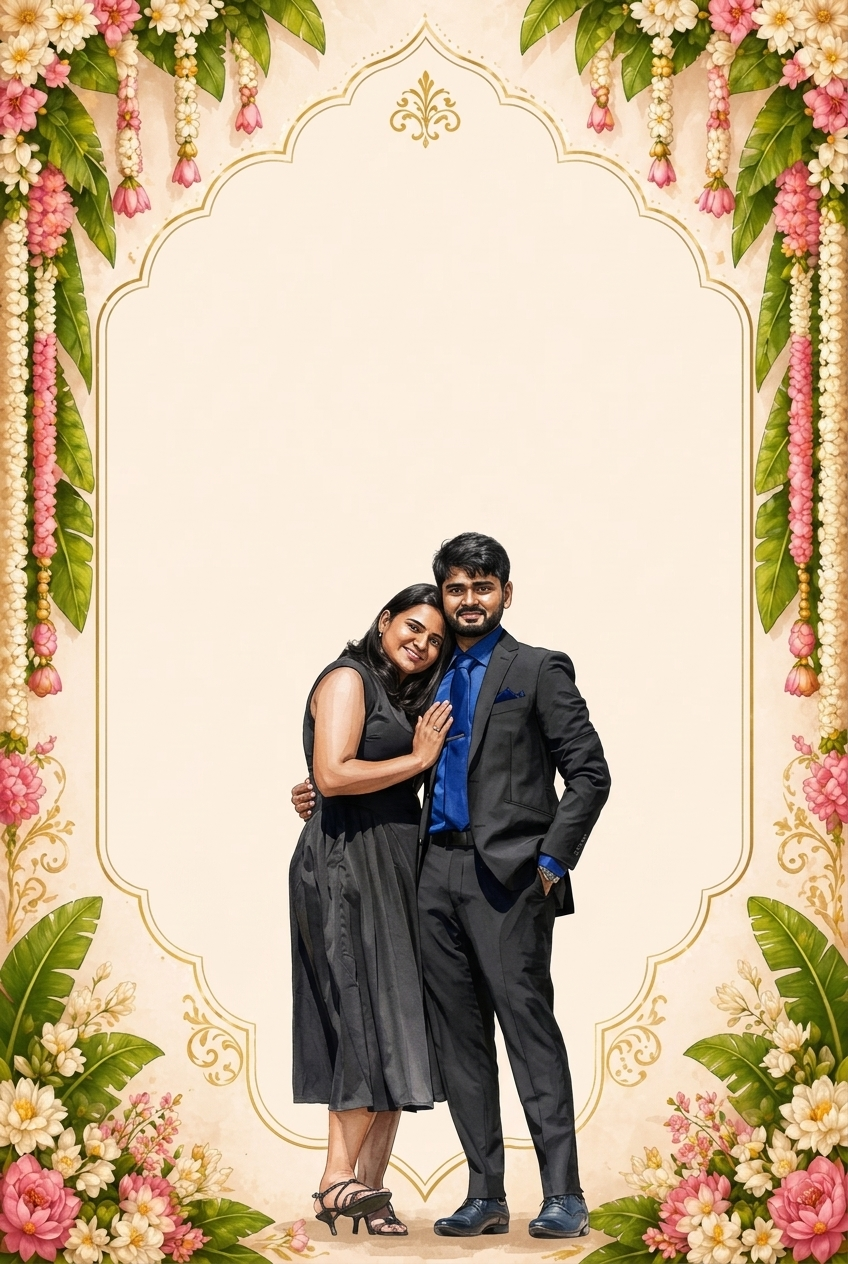
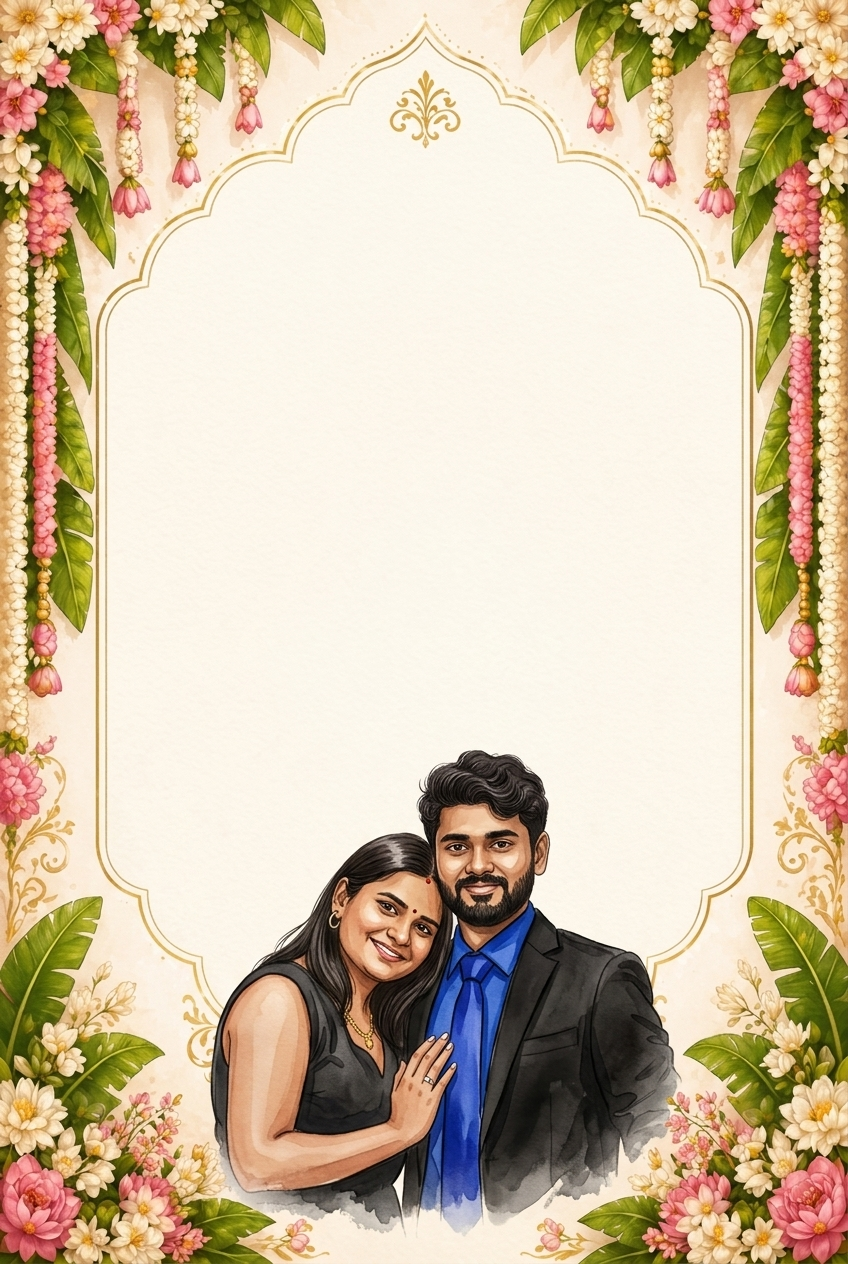
Fix Page 2 compact couple arch illustrations without gaps and configure Firebase Hosting (vishnupriyan-ss)

diff --git a/src/components/IntroductionSection.jsx b/src/components/IntroductionSection.jsx
@@ -93,35 +93,10 @@ export function IntroductionSection() {
 
       {/* Floral Gold Temple Arch & Watercolor Couple Stage */}
       <div className="print-arch-stage relative z-10 mx-auto w-full max-w-[54rem] print:max-w-none overflow-hidden rounded-3xl print:rounded-none border border-gold-400/40 print:border-0 shadow-[0_24px_64px_rgba(58,8,17,0.14)] print:shadow-none bg-[#FBF1E6]">
-        {/* Layer 1: Full-bleed Floral Arch Frame */}
-        <img
-          src={activeIllustration.src}
-          alt=""
-          aria-hidden="true"
-          className="pointer-events-none select-none absolute inset-0 h-full w-full object-fill"
-        />
-
-        {/* Cream Parchment Mask (#FBF1E6 exact arch tone) over the original couple so only the scaled-down couple shows cleanly */}
-        <div
-          aria-hidden="true"
-          className="pointer-events-none absolute left-[22.5%] right-[18.8%] top-[50%] bottom-[11.5%] rounded-2xl"
-          style={{ backgroundColor: '#FBF1E6' }}
-        />
-        <div
-          aria-hidden="true"
-          className="pointer-events-none absolute left-[27.5%] right-[24%] top-[51%] bottom-[1.5%] rounded-2xl"
-          style={{ backgroundColor: '#FBF1E6' }}
-        />
-
-        {/* Layer 2: Scaled-down Couple Illustration (~22% smaller, anchored at the bottom center of the arch) */}
+        {/* Full-bleed Floral Arch & Compact Couple Illustration */}
         <img
           src={activeIllustration.src}
           alt={activeIllustration.alt}
-          style={{
-            clipPath: 'inset(50.5% 19.2% 0% 22.5% round 28px)',
-            transform: 'scale(0.78)',
-            transformOrigin: '50% 98.5%',
-          }}
           className="pointer-events-none select-none absolute inset-0 h-full w-full object-fill"
         />
 
